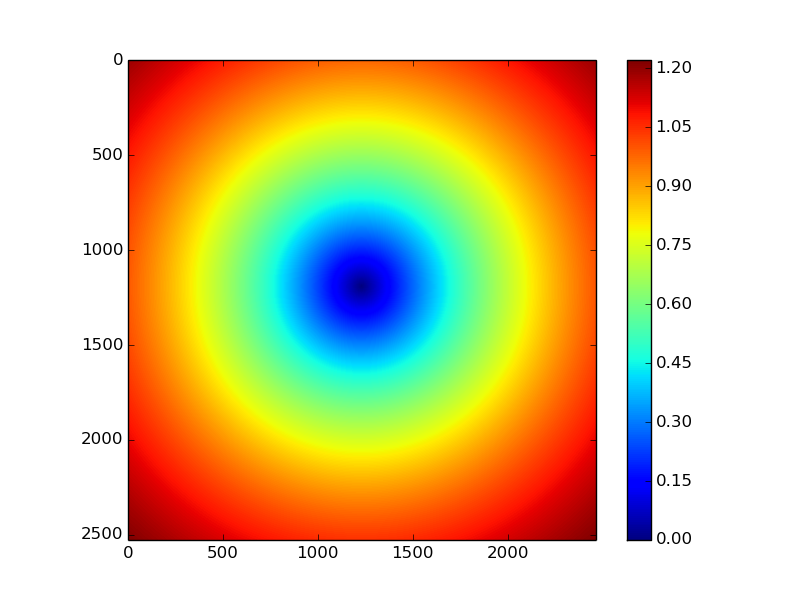
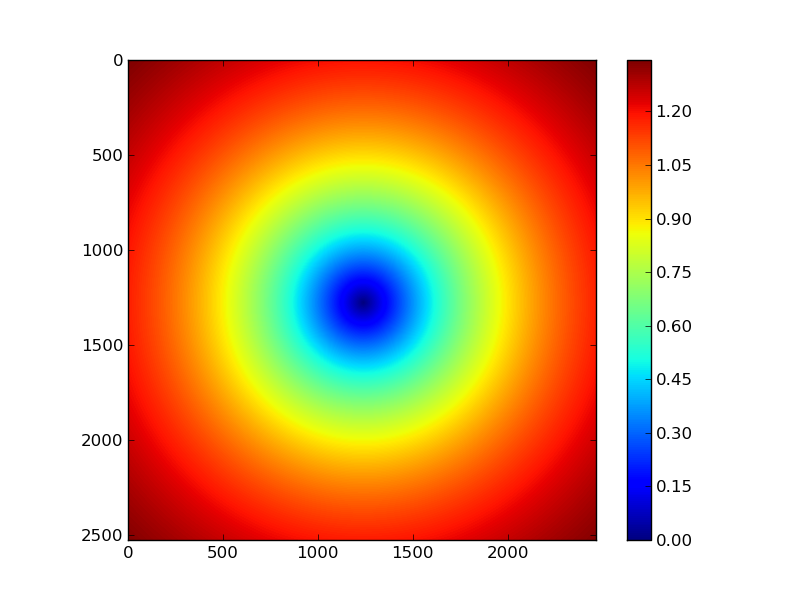
Now close to there: want to clean this up & work in to the standard mm to pixel corrections

diff --git a/gw/parallax/parallax.py b/gw/parallax/parallax.py
@@ -56,12 +56,6 @@ def compute_offset(t0, theta, mu):
     (mu * (1 - math.exp(- mu * t)))
   return offset
 
-def compute_offset_test(t0, theta, mu):
-  import math
-  t = t0 / math.cos(theta)
-  offset = math.sin(theta) * (1 - (1 + mu * t) * math.exp(- mu * t)) / mu
-  return offset
-
 def compute_offset_dectris(t0, theta, mu):
   import math
   t = t0 / math.cos(theta)
@@ -153,8 +147,7 @@ DETECTOR_DISTANCE=%(distance).2f
 X-RAY_WAVELENGTH=%(wavelength).6f
 INCIDENT_BEAM_DIRECTION=%(beam_x).3f %(beam_y).3f %(beam_z).3f
 SENSOR_THICKNESS= %(thickness).3f
-ORGX=%(origin_fast).2f ORGY=%(origin_slow).2f
-'''
+ORGX=%(origin_fast).2f ORGY=%(origin_slow).2f'''
 
 def image_to_XDS_XYCORR(image_filename, sensor_thickness_mm):
   '''Generate an XYCORR input file from an image header via dxtbx, noting
@@ -221,6 +214,89 @@ def image_to_XDS_XYCORR(image_filename, sensor_thickness_mm):
   return flex.sqrt(x_corrections_parallax * x_corrections_parallax + \
                    y_corrections_parallax * y_corrections_parallax)
 
+def image_to_test(image_filename, sensor_thickness_mm):
+  xds_table = image_to_XDS_XYCORR(image_filename, sensor_thickness_mm)
+
+  from dxtbx import load
+  from scitbx import matrix
+  import math
+  import random
+  import os
+
+  image = load(image_filename)
+
+  beam = matrix.col(image.get_beam().get_s0())
+  wavelength = image.get_beam().get_wavelength()
+  energy_kev = 12.3985 / wavelength
+  mu = derive_absorption_coefficient_Si(energy_kev)
+  d = image.get_detector()[0]
+  fast = matrix.col(d.get_fast_axis())
+  slow = matrix.col(d.get_slow_axis())
+  normal = matrix.col(d.get_normal())
+  origin = matrix.col(d.get_origin())
+  distance = origin.dot(normal)
+  offset = distance * normal - origin
+  offset_fast = offset.dot(fast)
+  offset_slow = offset.dot(slow)
+  pixel_size = d.get_pixel_size()
+
+  # this is in order slow, fast i.e. C order
+  image_size = image.get_raw_data().focus()
+
+  F = fast * pixel_size[0]
+  S = slow * pixel_size[1]
+
+  _theta = []
+  _xds = []
+  _dials = []
+  _dectris = []
+
+  pixel_cm = pixel_size[0] / 10.0
+
+  for j in range(10000):
+    x = random.random() * image_size[1]
+    y = random.random() * image_size[0]
+    p = origin + y * S + x * F
+    theta = p.angle(normal)
+    xds = xds_table[int(y), int(x)]
+    dials = compute_offset(sensor_thickness_mm, theta, mu)
+    dectris = compute_offset_dectris(sensor_thickness_mm, theta, mu)
+
+    _theta.append(theta * 180.0 / math.pi)
+    _xds.append(xds)
+    _dials.append(dials / pixel_cm)
+    _dectris.append(dectris / pixel_cm)
+
+  # sort the results
+
+  values = { }
+
+  for t, x, di, de in zip(_theta, _xds, _dials, _dectris):
+    values[t] = x, di, de
+
+  _theta, _xds, _dials, _dectris = [], [], [], []
+  for t in sorted(values):
+    x, di, de = values[t]
+    _theta.append(t)
+    _xds.append(x)
+    _dials.append(di)
+    _dectris.append(de)
+    print t, x, di, de
+
+  import matplotlib
+  matplotlib.use('Agg')
+  from matplotlib import pyplot
+  p1, p2, p3 = pyplot.plot(_theta, _xds, _theta, _dials, _theta, _dectris)
+  pyplot.xlabel('Angle, degrees')
+  pyplot.ylabel('Offset, pixels')
+  pyplot.title('Parallax correction offsets for %s' % os.path.split(
+    image_filename)[-1])
+  pyplot.legend([p1, p2, p3],
+                ['Calculated by XDS', 'DIALS model', 'Dectris model'],
+                loc=2)
+  pyplot.savefig('corrections.png')
+  return
+
 def image_to_parallax(image_filename, sensor_thickness_mm, method):
   from dxtbx import load
   from scitbx import matrix
@@ -262,7 +338,7 @@ def image_to_parallax(image_filename, sensor_thickness_mm, method):
   return parallax
 
 
-if __name__ == '__main__':
+if __name__ == '__main_old__':
   import sys
   from scitbx.array_family import flex
   xds_parallax = image_to_XDS_XYCORR(sys.argv[1], float(sys.argv[2]))
@@ -270,8 +346,6 @@ if __name__ == '__main__':
                                      method=compute_offset)
   dectris_parallax = image_to_parallax(sys.argv[1], float(sys.argv[2]),
                                        method=compute_offset_dectris)
-  test_parallax = image_to_parallax(sys.argv[1], float(sys.argv[2]),
-                                    method=compute_offset_test)
 
   import matplotlib
   matplotlib.use('Agg')
@@ -283,5 +357,7 @@ if __name__ == '__main__':
   pyplot.savefig('dials_parallax.png')
   pyplot.imshow(dectris_parallax.as_numpy_array())
   pyplot.savefig('dectris_parallax.png')
-  pyplot.imshow(test_parallax.as_numpy_array())
-  pyplot.savefig('test_parallax.png')
+
+if __name__ == '__main__':
+  import sys
+  xds_parallax = image_to_test(sys.argv[1], float(sys.argv[2]))
